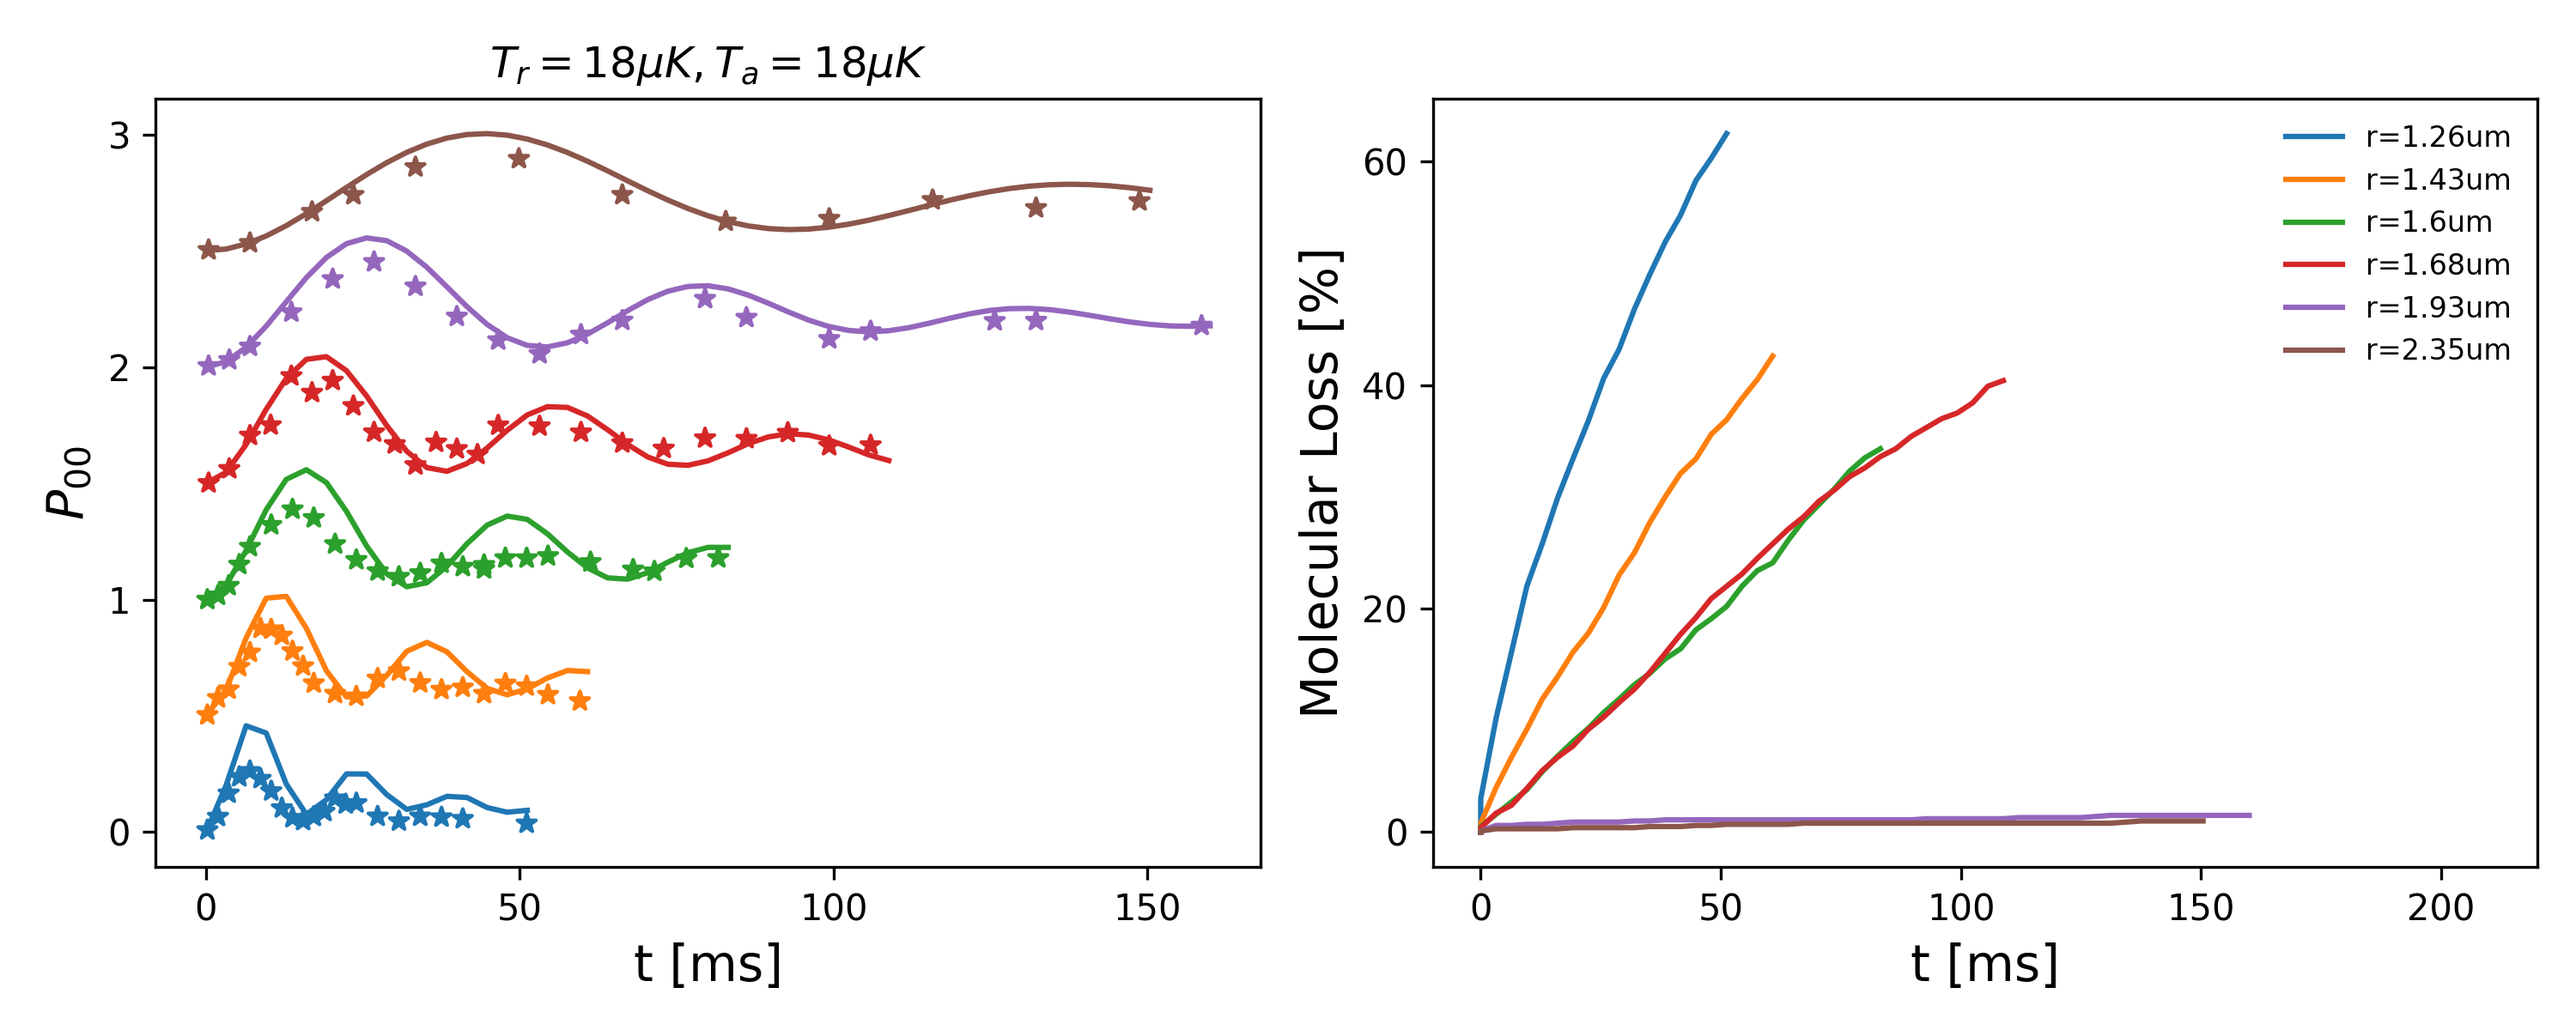
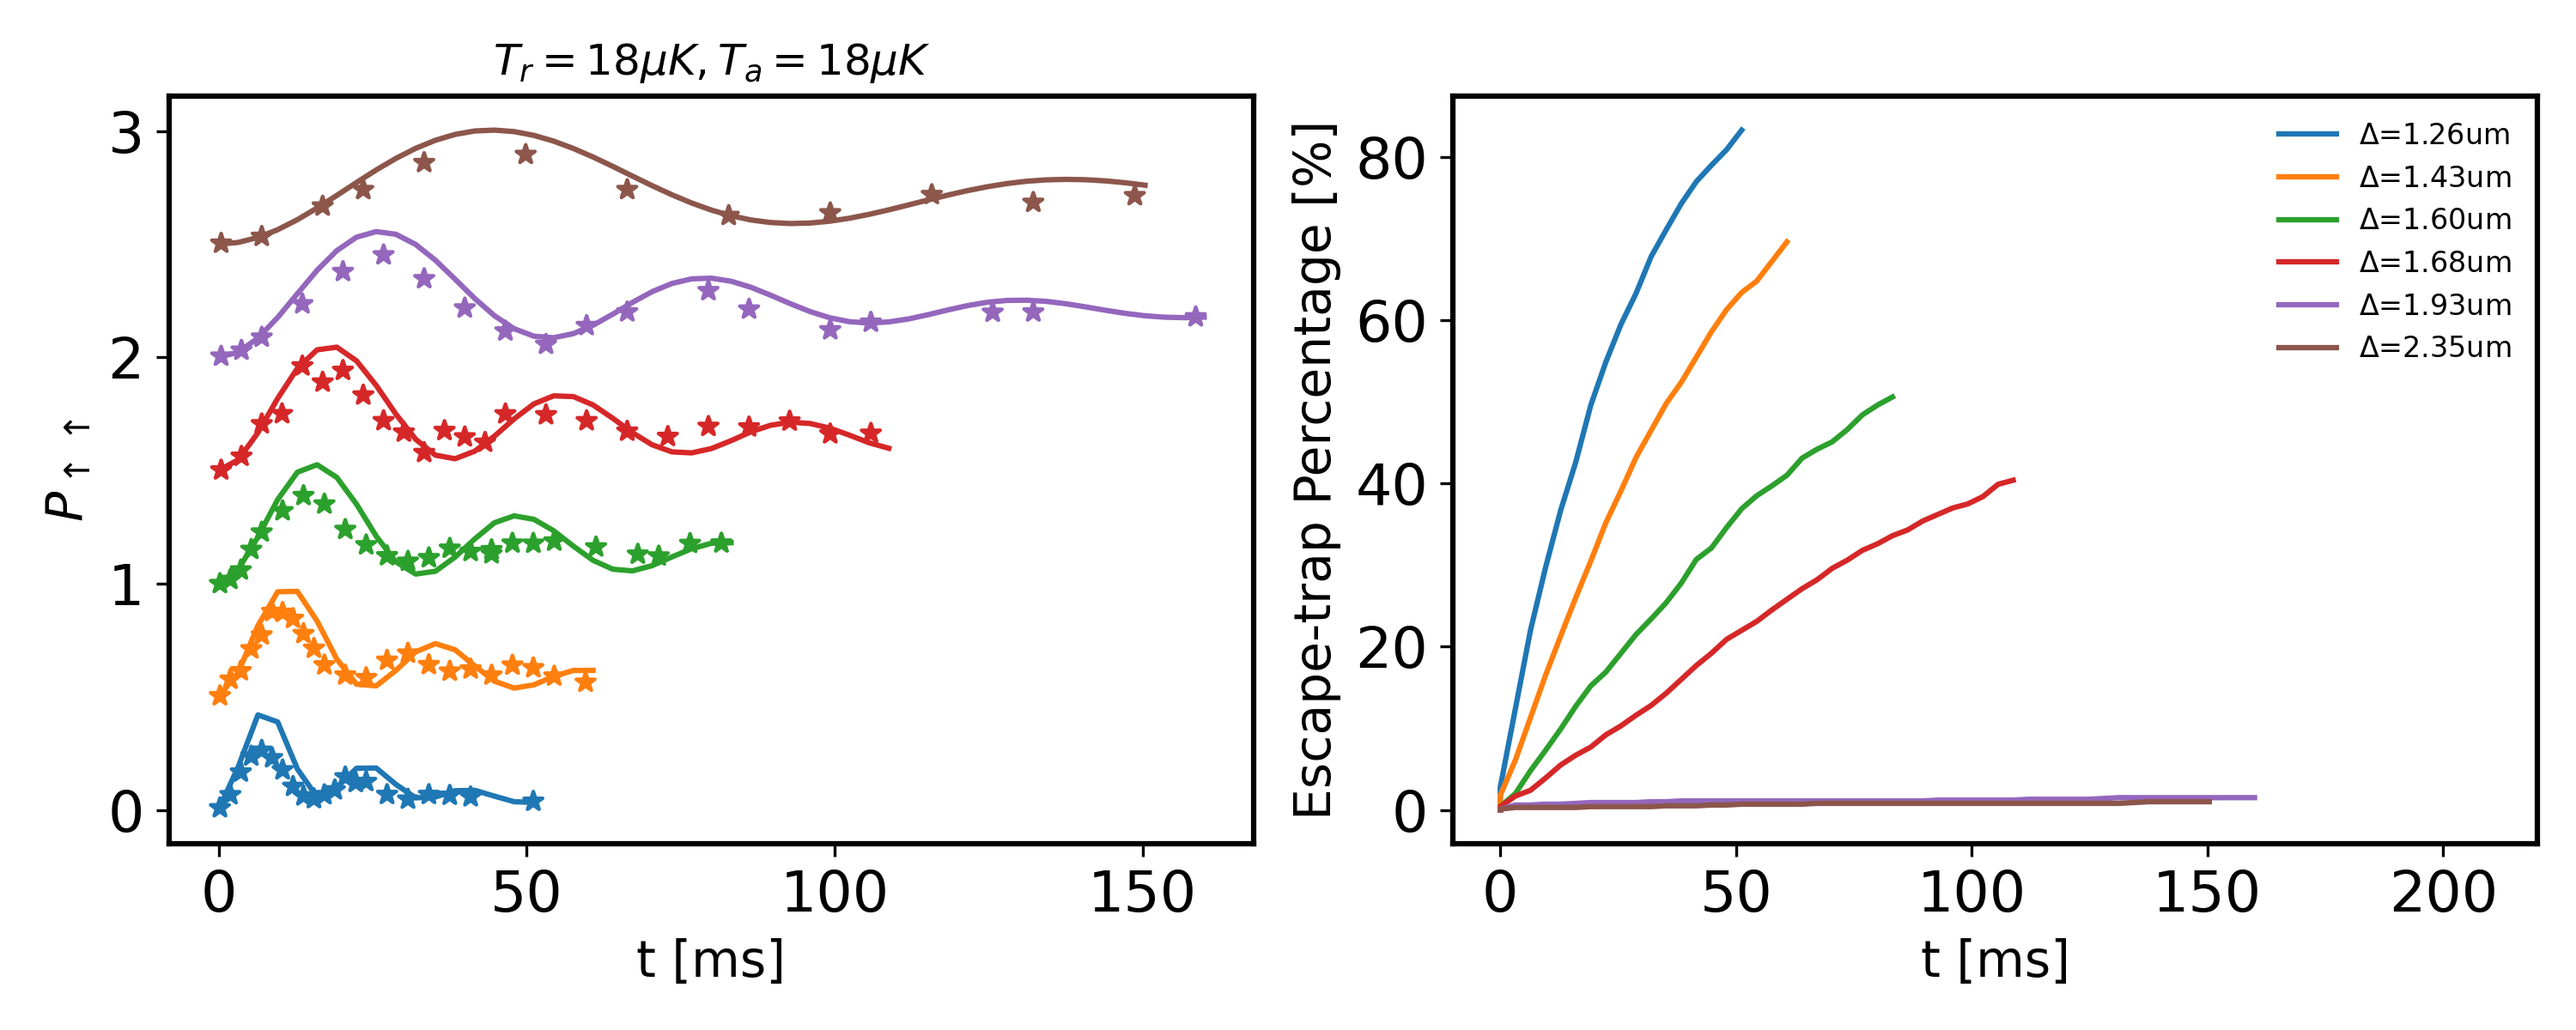
initial

diff --git a/examples/two_qubits/plot.py b/examples/two_qubits/plot.py
@@ -2,10 +2,13 @@ import os
 import numpy as np
 import matplotlib.pyplot as plt
 import matplotlib as mpl
+mpl.rcParams['axes.linewidth'] = 1.5
+mpl.rcParams['xtick.labelsize'] = 16
+mpl.rcParams['ytick.labelsize'] = 16
 ################################################
 # Load experimental data
 ################################################
-data_folder = '/home/pinchenx/data.gpfs/QEpsilon/examples/two_qubits/data'
+data_folder = './data'
 data_XY8_193 = np.loadtxt(os.path.join(data_folder, 'Fig3D_BlueCircles.csv'), delimiter=',', skiprows=1)
 data_XY8_235 = np.loadtxt(os.path.join(data_folder, 'Fig3E_PurpleTriangles.csv'), delimiter=',', skiprows=1)
 data_XY8_168 = np.loadtxt(os.path.join(data_folder, 'Fig3E_GreenSquares.csv'), delimiter=',', skiprows=1)
@@ -17,7 +20,7 @@ data_list = [data_XY8_126, data_XY8_143, data_XY8_160, data_XY8_168, data_XY8_19
 # Plot
 ################################################
 sep_list = [1.26, 1.43, 1.6,1.68, 1.93, 2.35] # um
-tau_list = [10000, 10000, 10000, 10000, 1000000, 1000000 ]
+tau_list = [4000, 4000, 6000, 10000, 1000000, 1000000 ]
 atemp = 18
 rtemp = 18
 tau = 1000000
@@ -40,16 +43,16 @@ for idx, sep in enumerate(sep_list):
         loss = np.zeros_like(sim_t)
     ax[0].plot(sim_t, sim_P00+idx*0.5,  )
     ax[0].scatter(data[:,0], data[:,1]+idx*0.5, np.ones_like(data[:,0])*30, marker='*', label=f'r={sep}um')
-    ax[1].plot(np.concatenate([[0], sim_t]), np.concatenate([[0], loss*100]), label=f'r={sep}um')
+    ax[1].plot(np.concatenate([[0], sim_t]), np.concatenate([[0], loss*100]), label=r'$\Delta$={:.2f}um'.format(sep))
 
 # ax[0].legend(fontsize=10)
 ax[0].set_title(r'$T_r={:.0f}\mu K, T_a={:.0f}\mu K$'.format(rtemp, atemp))
 ax[0].set_xlabel('t [ms]', fontsize=14)
-ax[0].set_ylabel(r'$P_{00}$', fontsize=14)
+ax[0].set_ylabel(r'$P_{\uparrow\uparrow}$', fontsize=14)
 
 ax[1].legend(fontsize=8, loc='upper right', frameon=False)
 ax[1].set_xlabel('t [ms]', fontsize=14)
-ax[1].set_ylabel('Molecular Loss [%]', fontsize=14)
+ax[1].set_ylabel('Escape-trap Percentage [%]', fontsize=14)
 ax[1].set_xlim(-10, 220)
 fig.tight_layout()
 fig.savefig(f'compare_atemp{atemp}uK_rtemp{rtemp}uK_tau{tau}ms.png', dpi=300)

diff --git a/examples/two_qubits/atemp18uK_rtemp18uK_tau2ms_sep1.26um/run.py b/examples/two_qubits/atemp18uK_rtemp18uK_tau2ms_sep1.26um/run.py
@@ -16,7 +16,8 @@ dev = 'cpu'
 ################################################
 # Load experimental data
 ################################################
-data_folder = '/home/pinchenx/data.gpfs/QEpsilon/examples/two_qubits/data'
+# data_folder = '/home/pinchenx/data.gpfs/QEpsilon/examples/two_qubits/data'
+data_folder = '/global/homes/p/pinchenx/cfs_m1027/softwares/QEpsilon/examples/two_qubits/data'
 data_XY8_193 = np.loadtxt(os.path.join(data_folder, 'Fig3D_BlueCircles.csv'), delimiter=',', skiprows=1)
 data_XY8_193 = th.tensor(data_XY8_193, dtype=th.float).to(dev)
 

diff --git a/examples/two_qubits/atemp18uK_rtemp18uK_tau2ms_sep1.43um/run.py b/examples/two_qubits/atemp18uK_rtemp18uK_tau2ms_sep1.43um/run.py
@@ -16,7 +16,8 @@ dev = 'cpu'
 ################################################
 # Load experimental data
 ################################################
-data_folder = '/home/pinchenx/data.gpfs/QEpsilon/examples/two_qubits/data'
+# data_folder = '/home/pinchenx/data.gpfs/QEpsilon/examples/two_qubits/data'
+data_folder = '/global/homes/p/pinchenx/cfs_m1027/softwares/QEpsilon/examples/two_qubits/data'
 data_XY8_193 = np.loadtxt(os.path.join(data_folder, 'Fig3D_BlueCircles.csv'), delimiter=',', skiprows=1)
 data_XY8_193 = th.tensor(data_XY8_193, dtype=th.float).to(dev)
 

diff --git a/examples/two_qubits/atemp18uK_rtemp18uK_tau2ms_sep1.60um/run.py b/examples/two_qubits/atemp18uK_rtemp18uK_tau2ms_sep1.60um/run.py
@@ -16,7 +16,8 @@ dev = 'cpu'
 ################################################
 # Load experimental data
 ################################################
-data_folder = '/home/pinchenx/data.gpfs/QEpsilon/examples/two_qubits/data'
+# data_folder = '/home/pinchenx/data.gpfs/QEpsilon/examples/two_qubits/data'
+data_folder = '/global/homes/p/pinchenx/cfs_m1027/softwares/QEpsilon/examples/two_qubits/data'
 data_XY8_193 = np.loadtxt(os.path.join(data_folder, 'Fig3D_BlueCircles.csv'), delimiter=',', skiprows=1)
 data_XY8_193 = th.tensor(data_XY8_193, dtype=th.float).to(dev)
 

diff --git a/examples/two_qubits/atemp18uK_rtemp18uK_tau2ms_sep1.68um/run.py b/examples/two_qubits/atemp18uK_rtemp18uK_tau2ms_sep1.68um/run.py
@@ -16,7 +16,8 @@ dev = 'cpu'
 ################################################
 # Load experimental data
 ################################################
-data_folder = '/home/pinchenx/data.gpfs/QEpsilon/examples/two_qubits/data'
+# data_folder = '/home/pinchenx/data.gpfs/QEpsilon/examples/two_qubits/data'
+data_folder = '/global/homes/p/pinchenx/cfs_m1027/softwares/QEpsilon/examples/two_qubits/data'
 data_XY8_193 = np.loadtxt(os.path.join(data_folder, 'Fig3D_BlueCircles.csv'), delimiter=',', skiprows=1)
 data_XY8_193 = th.tensor(data_XY8_193, dtype=th.float).to(dev)
 

diff --git a/examples/two_qubits/atemp18uK_rtemp18uK_tau4ms_sep1.26um/run.py b/examples/two_qubits/atemp18uK_rtemp18uK_tau4ms_sep1.26um/run.py
@@ -16,7 +16,8 @@ dev = 'cpu'
 ################################################
 # Load experimental data
 ################################################
-data_folder = '/home/pinchenx/data.gpfs/QEpsilon/examples/two_qubits/data'
+# data_folder = '/home/pinchenx/data.gpfs/QEpsilon/examples/two_qubits/data'
+data_folder = '/global/homes/p/pinchenx/cfs_m1027/softwares/QEpsilon/examples/two_qubits/data'
 data_XY8_193 = np.loadtxt(os.path.join(data_folder, 'Fig3D_BlueCircles.csv'), delimiter=',', skiprows=1)
 data_XY8_193 = th.tensor(data_XY8_193, dtype=th.float).to(dev)
 

diff --git a/examples/two_qubits/atemp18uK_rtemp18uK_tau4ms_sep1.43um/run.py b/examples/two_qubits/atemp18uK_rtemp18uK_tau4ms_sep1.43um/run.py
@@ -16,7 +16,8 @@ dev = 'cpu'
 ################################################
 # Load experimental data
 ################################################
-data_folder = '/home/pinchenx/data.gpfs/QEpsilon/examples/two_qubits/data'
+# data_folder = '/home/pinchenx/data.gpfs/QEpsilon/examples/two_qubits/data'
+data_folder = '/global/homes/p/pinchenx/cfs_m1027/softwares/QEpsilon/examples/two_qubits/data'
 data_XY8_193 = np.loadtxt(os.path.join(data_folder, 'Fig3D_BlueCircles.csv'), delimiter=',', skiprows=1)
 data_XY8_193 = th.tensor(data_XY8_193, dtype=th.float).to(dev)
 

diff --git a/examples/two_qubits/atemp18uK_rtemp18uK_tau4ms_sep1.60um/run.py b/examples/two_qubits/atemp18uK_rtemp18uK_tau4ms_sep1.60um/run.py
@@ -16,7 +16,8 @@ dev = 'cpu'
 ################################################
 # Load experimental data
 ################################################
-data_folder = '/home/pinchenx/data.gpfs/QEpsilon/examples/two_qubits/data'
+# data_folder = '/home/pinchenx/data.gpfs/QEpsilon/examples/two_qubits/data'
+data_folder = '/global/homes/p/pinchenx/cfs_m1027/softwares/QEpsilon/examples/two_qubits/data'
 data_XY8_193 = np.loadtxt(os.path.join(data_folder, 'Fig3D_BlueCircles.csv'), delimiter=',', skiprows=1)
 data_XY8_193 = th.tensor(data_XY8_193, dtype=th.float).to(dev)
 

diff --git a/examples/two_qubits/atemp18uK_rtemp18uK_tau4ms_sep1.68um/run.py b/examples/two_qubits/atemp18uK_rtemp18uK_tau4ms_sep1.68um/run.py
@@ -16,7 +16,8 @@ dev = 'cpu'
 ################################################
 # Load experimental data
 ################################################
-data_folder = '/home/pinchenx/data.gpfs/QEpsilon/examples/two_qubits/data'
+# data_folder = '/home/pinchenx/data.gpfs/QEpsilon/examples/two_qubits/data'
+data_folder = '/global/homes/p/pinchenx/cfs_m1027/softwares/QEpsilon/examples/two_qubits/data'
 data_XY8_193 = np.loadtxt(os.path.join(data_folder, 'Fig3D_BlueCircles.csv'), delimiter=',', skiprows=1)
 data_XY8_193 = th.tensor(data_XY8_193, dtype=th.float).to(dev)
 

diff --git a/examples/two_qubits/atemp18uK_rtemp18uK_tau6ms_sep1.26um/run.py b/examples/two_qubits/atemp18uK_rtemp18uK_tau6ms_sep1.26um/run.py
@@ -16,7 +16,8 @@ dev = 'cpu'
 ################################################
 # Load experimental data
 ################################################
-data_folder = '/home/pinchenx/data.gpfs/QEpsilon/examples/two_qubits/data'
+# data_folder = '/home/pinchenx/data.gpfs/QEpsilon/examples/two_qubits/data'
+data_folder = '/global/homes/p/pinchenx/cfs_m1027/softwares/QEpsilon/examples/two_qubits/data'
 data_XY8_193 = np.loadtxt(os.path.join(data_folder, 'Fig3D_BlueCircles.csv'), delimiter=',', skiprows=1)
 data_XY8_193 = th.tensor(data_XY8_193, dtype=th.float).to(dev)
 

diff --git a/examples/two_qubits/atemp18uK_rtemp18uK_tau6ms_sep1.43um/run.py b/examples/two_qubits/atemp18uK_rtemp18uK_tau6ms_sep1.43um/run.py
@@ -16,7 +16,8 @@ dev = 'cpu'
 ################################################
 # Load experimental data
 ################################################
-data_folder = '/home/pinchenx/data.gpfs/QEpsilon/examples/two_qubits/data'
+# data_folder = '/home/pinchenx/data.gpfs/QEpsilon/examples/two_qubits/data'
+data_folder = '/global/homes/p/pinchenx/cfs_m1027/softwares/QEpsilon/examples/two_qubits/data'
 data_XY8_193 = np.loadtxt(os.path.join(data_folder, 'Fig3D_BlueCircles.csv'), delimiter=',', skiprows=1)
 data_XY8_193 = th.tensor(data_XY8_193, dtype=th.float).to(dev)
 

diff --git a/examples/two_qubits/atemp18uK_rtemp18uK_tau6ms_sep1.60um/run.py b/examples/two_qubits/atemp18uK_rtemp18uK_tau6ms_sep1.60um/run.py
@@ -16,7 +16,8 @@ dev = 'cpu'
 ################################################
 # Load experimental data
 ################################################
-data_folder = '/home/pinchenx/data.gpfs/QEpsilon/examples/two_qubits/data'
+# data_folder = '/home/pinchenx/data.gpfs/QEpsilon/examples/two_qubits/data'
+data_folder = '/global/homes/p/pinchenx/cfs_m1027/softwares/QEpsilon/examples/two_qubits/data'
 data_XY8_193 = np.loadtxt(os.path.join(data_folder, 'Fig3D_BlueCircles.csv'), delimiter=',', skiprows=1)
 data_XY8_193 = th.tensor(data_XY8_193, dtype=th.float).to(dev)
 
